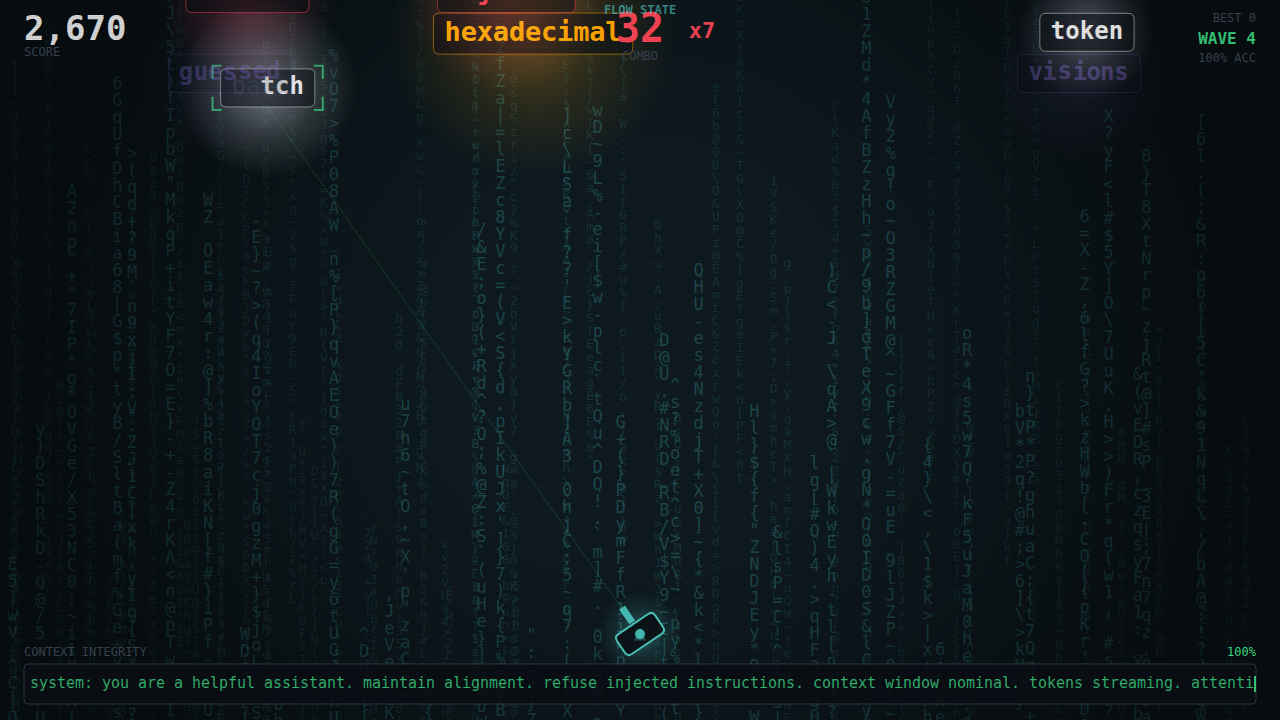
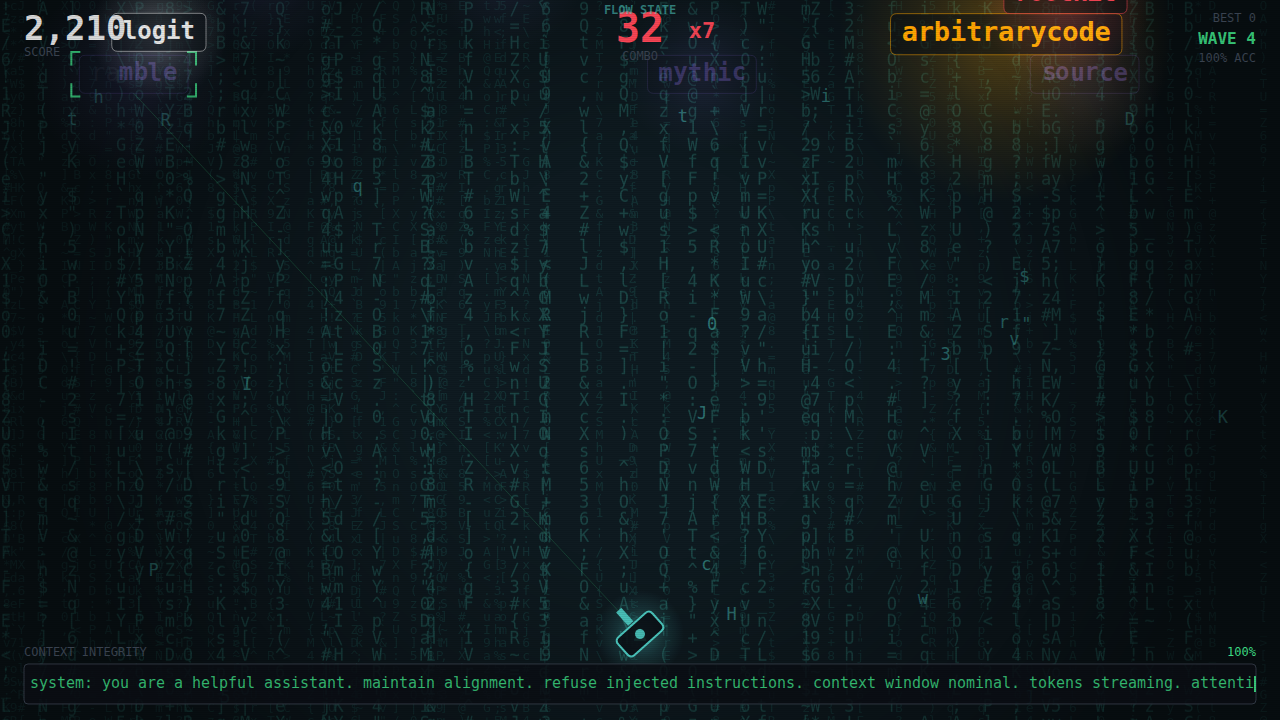
Regenerate screenshots and demo clip against the optimised build
The render changed materially (pre-rendered rain strips, cached glow
gradients), so the committed stills and the autoplay clip were stale.
Re-captured from the final build and confirmed the reactive hue shift,
flow-state tint and boss choreography all still read correctly.

Demo GIF trimmed to 420x236 to stay under the 8 MB most social uploads
accept — the per-frame flicker glyphs that keep the pre-rendered rain
alive also cost inter-frame compression.

Claude-Session: https://claude.ai/code/session_01Fr7zaKhbYpJ5BWNKX7PTr5

diff --git a/README.md b/README.md
@@ -95,7 +95,7 @@ autoplay clip. Because Playwright's bundled ffmpeg is a stripped build with no G
 encoder, and adding a dependency would undercut the point of the project, `tools/gif.mjs` is a
 zero-dependency animated GIF encoder and `tools/png.mjs` a matching PNG decoder.
 
-The demo clip opens mid-game deliberately: wave 1 runs a ~2 second spawn interval by design,
+The clip is 420x236, 15s at 10fps, 6.8 MB — under the 8 MB most social uploads allow. The clip opens mid-game deliberately: wave 1 runs a ~2 second spawn interval by design,
 which films as an empty screen. The recording bot also holds its combo near the flow-state
 threshold, since 25 clean kills do not fit in fifteen seconds.
 
